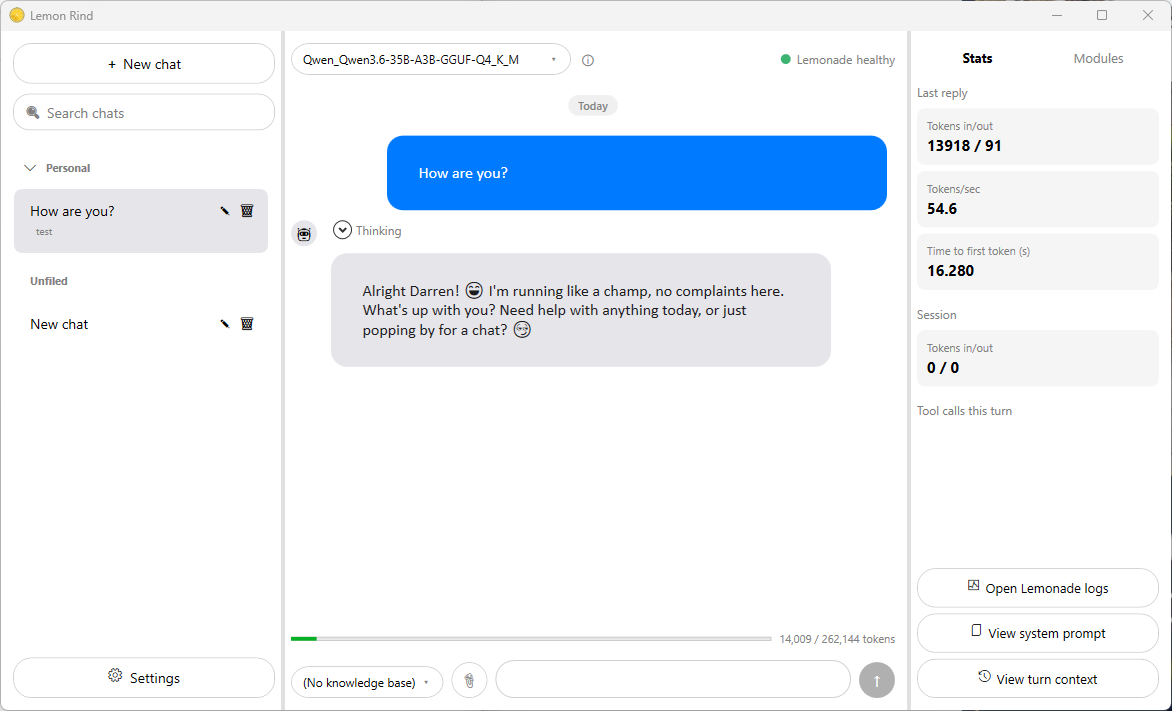
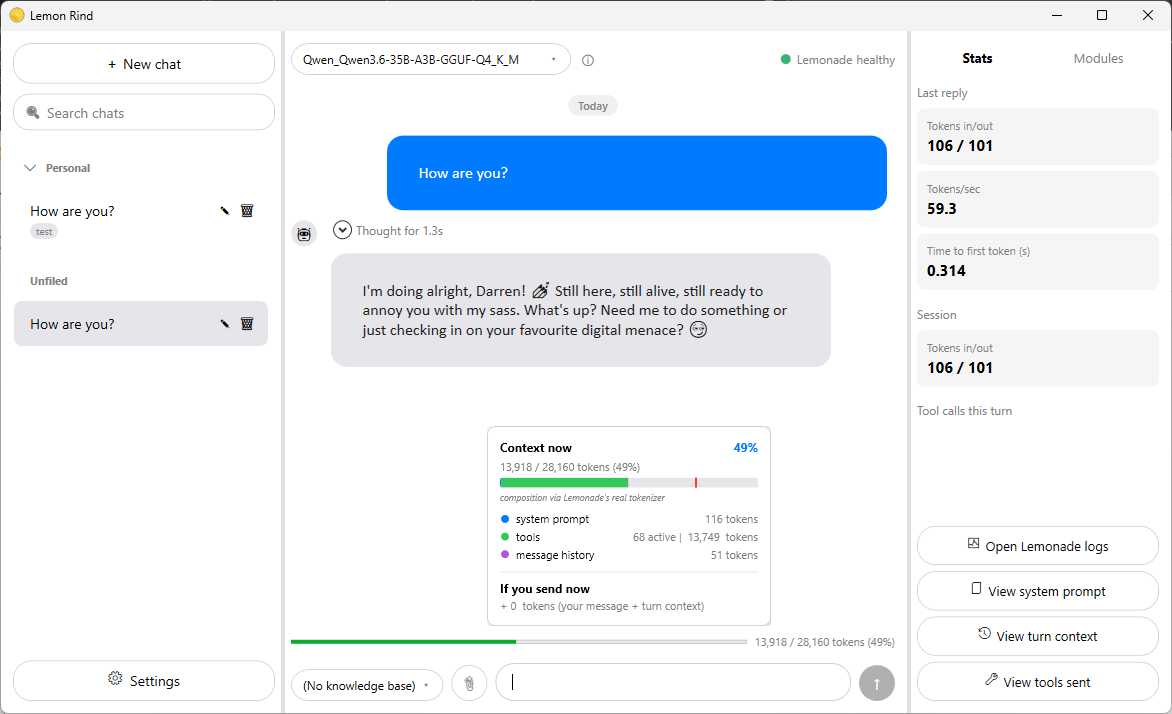
Update README overview screenshot and caption
Updated the overview screenshot for one showing the new context-usage breakdown popup, and amended caption.

diff --git a/README.md b/README.md
@@ -86,7 +86,7 @@ Not vibe coded — vibe assisted. AI helped with ideas, inspiration, and pointer
 
 ## Screenshots
 
-**Main chat window** - streaming replies, thinking panel, per-turn/session stats, context usage bar
+**Main chat window** - streaming replies, thinking panel, per-turn/session stats, context usage bar with a detailed breakdown popup
 ![Overview](<screenshots/Overview.png>)
 
 **Settings - Lemonade server**
